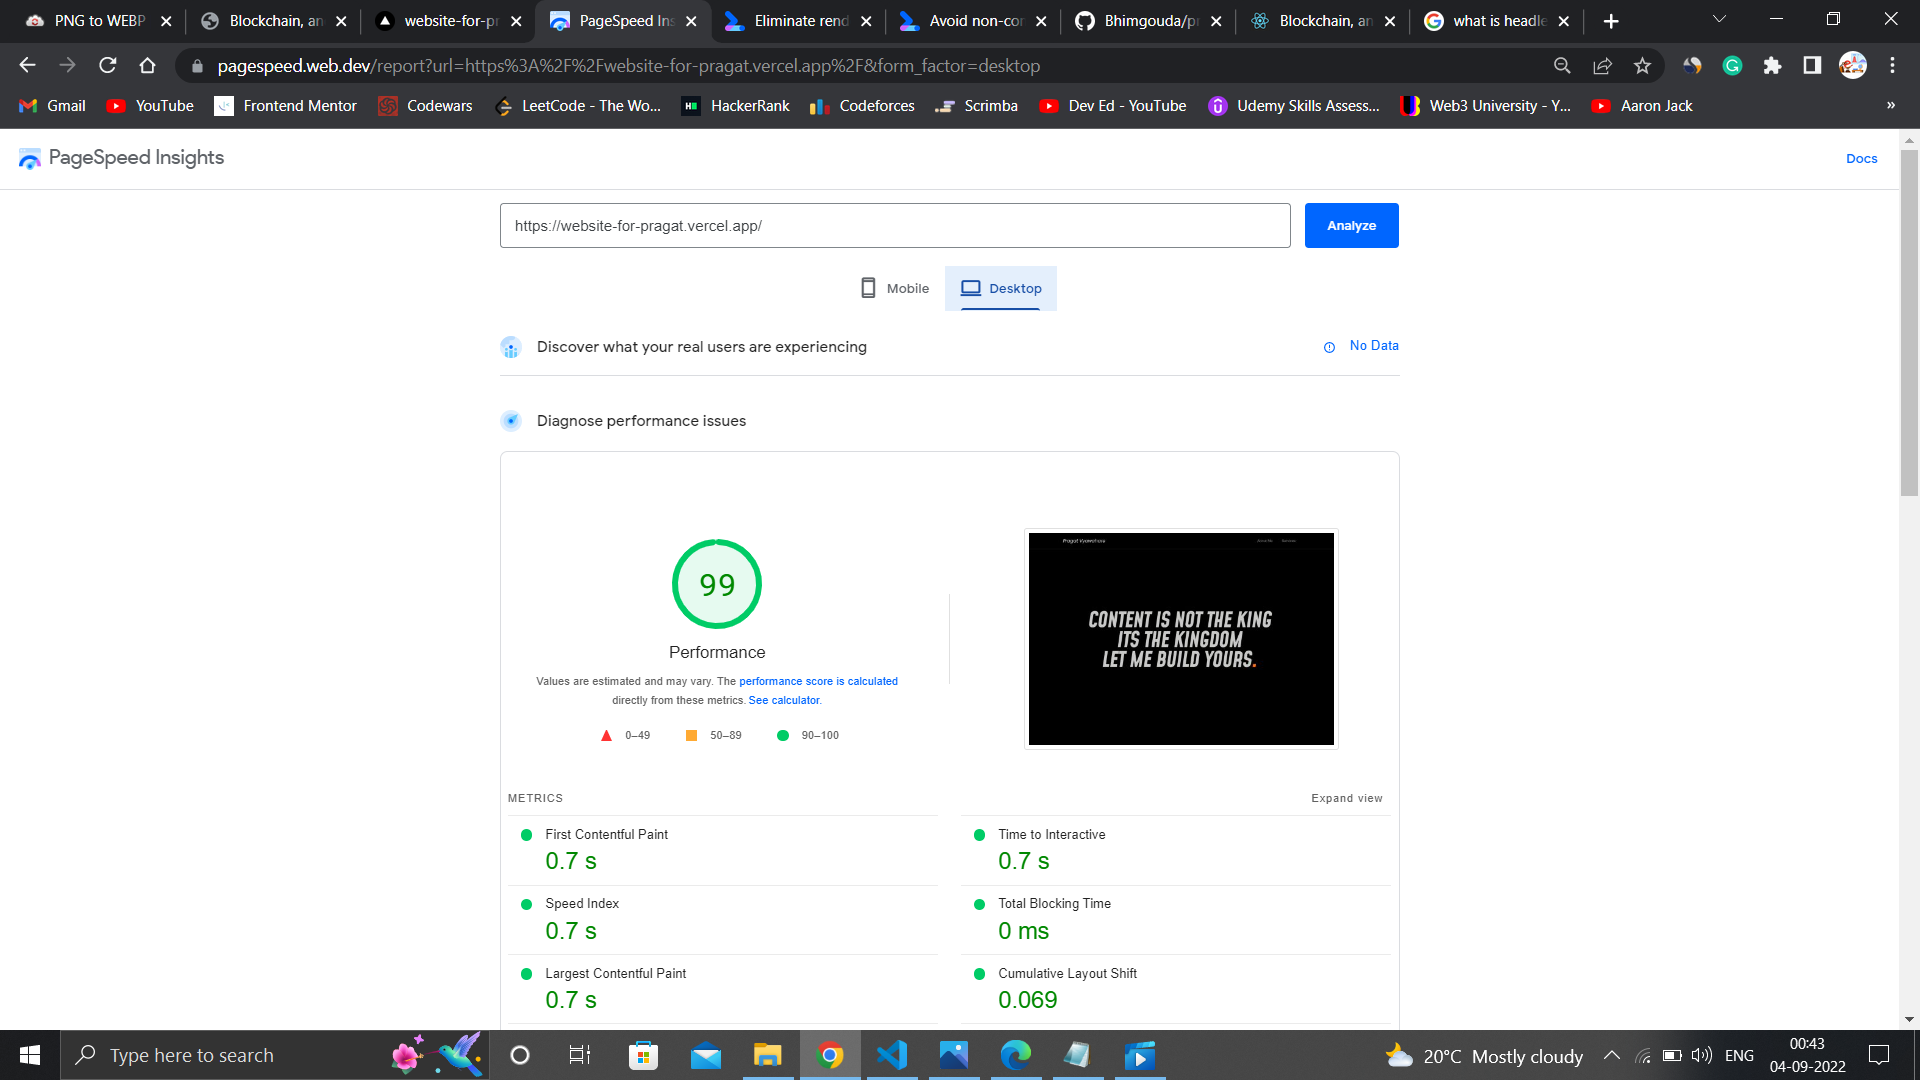
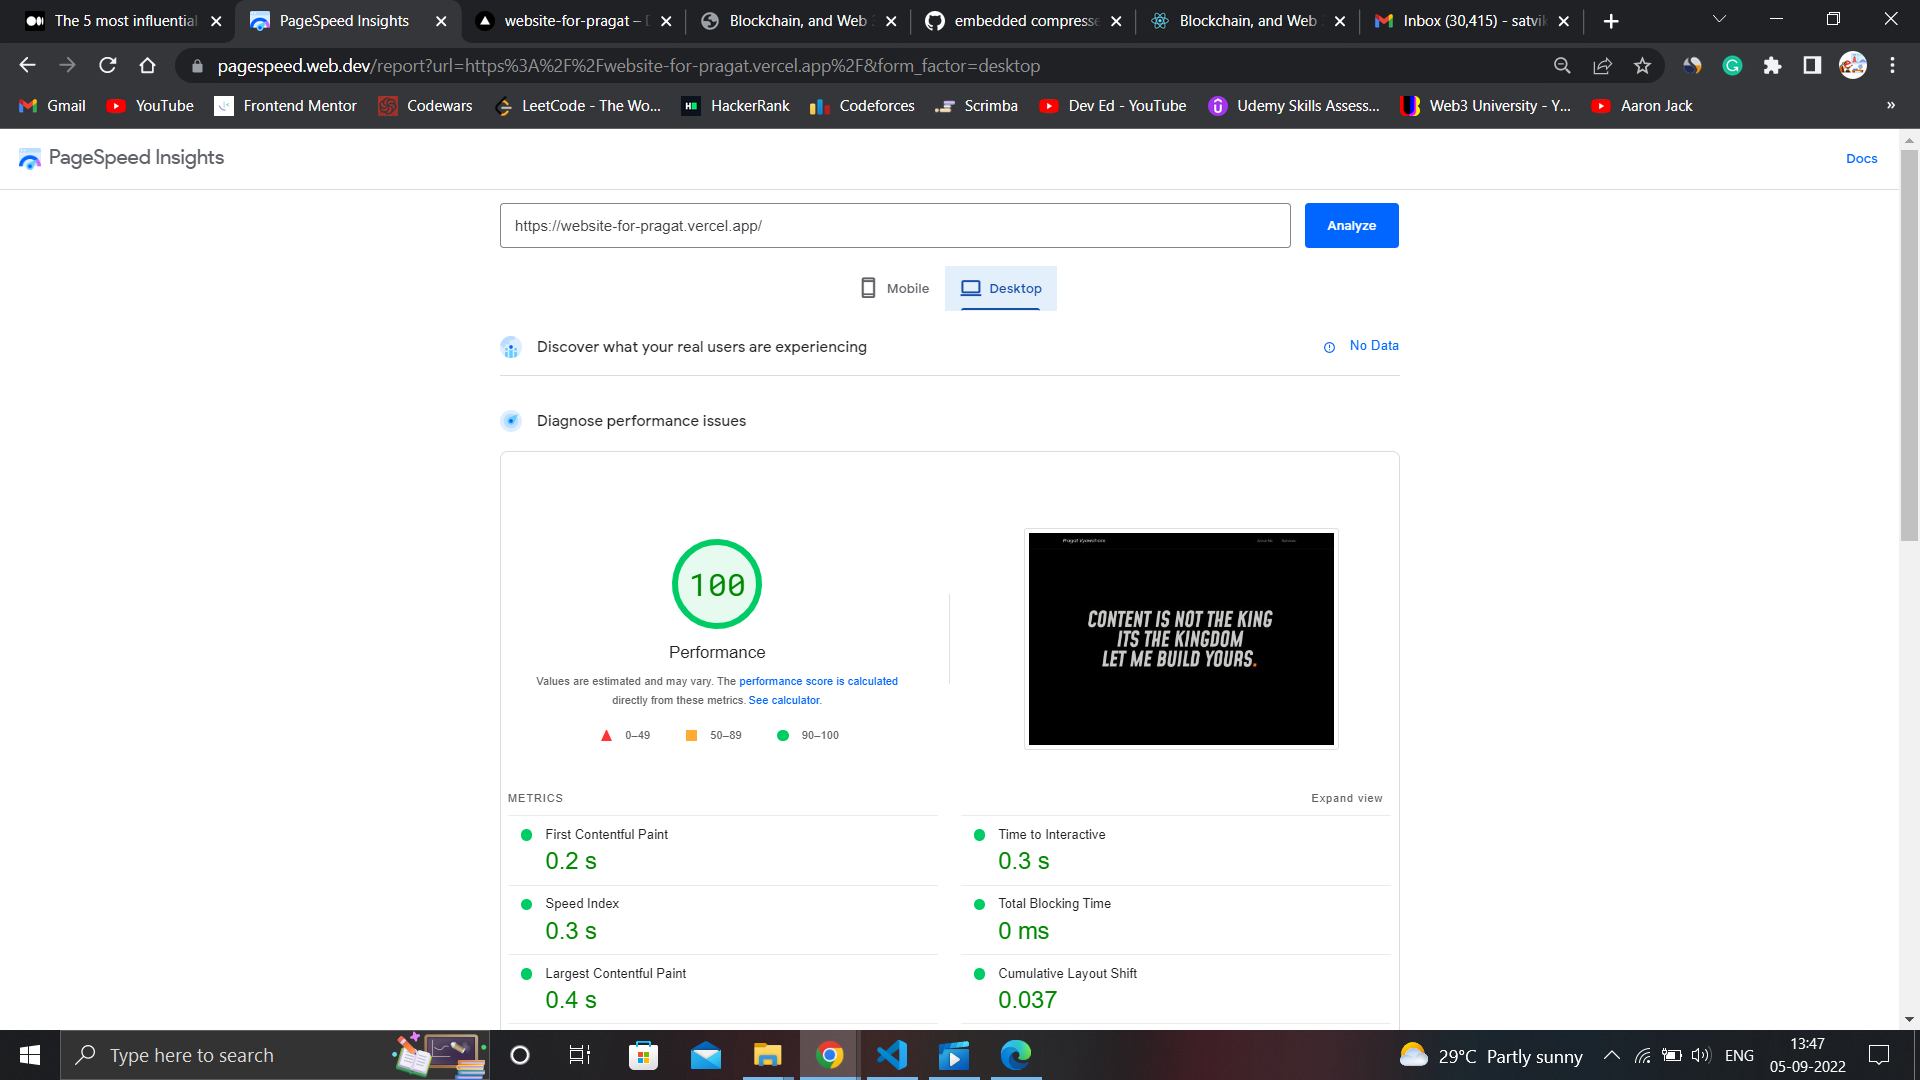
removed unused js

diff --git a/src/index.js b/src/index.js
@@ -1,12 +1,11 @@
 import reportWebVitals from "./reportWebVitals";
 import React from "react";
-import ReactDOM from "react-dom/client";
+import { createRoot } from "react-dom/client";
 import "../src/css/index.css";
 import { BrowserRouter } from "react-router-dom";
-import Navbar from "./components/navbar/navbar";
 import App from "./App";
 
-const root = ReactDOM.createRoot(document.getElementById("root"));
+const root = createRoot(document.getElementById("root"));
 root.render(
   <React.StrictMode>
     <BrowserRouter>

diff --git a/src/components/common/form.jsx b/src/components/common/form.jsx
@@ -1,6 +1,8 @@
 import React, { Component } from "react";
-import Joi, { errors } from "joi-browser";
+import Joi from "joi-browser";
 import axios from "axios";
+
+console.log(Joi);
 
 class Form extends Component {
   state = {
